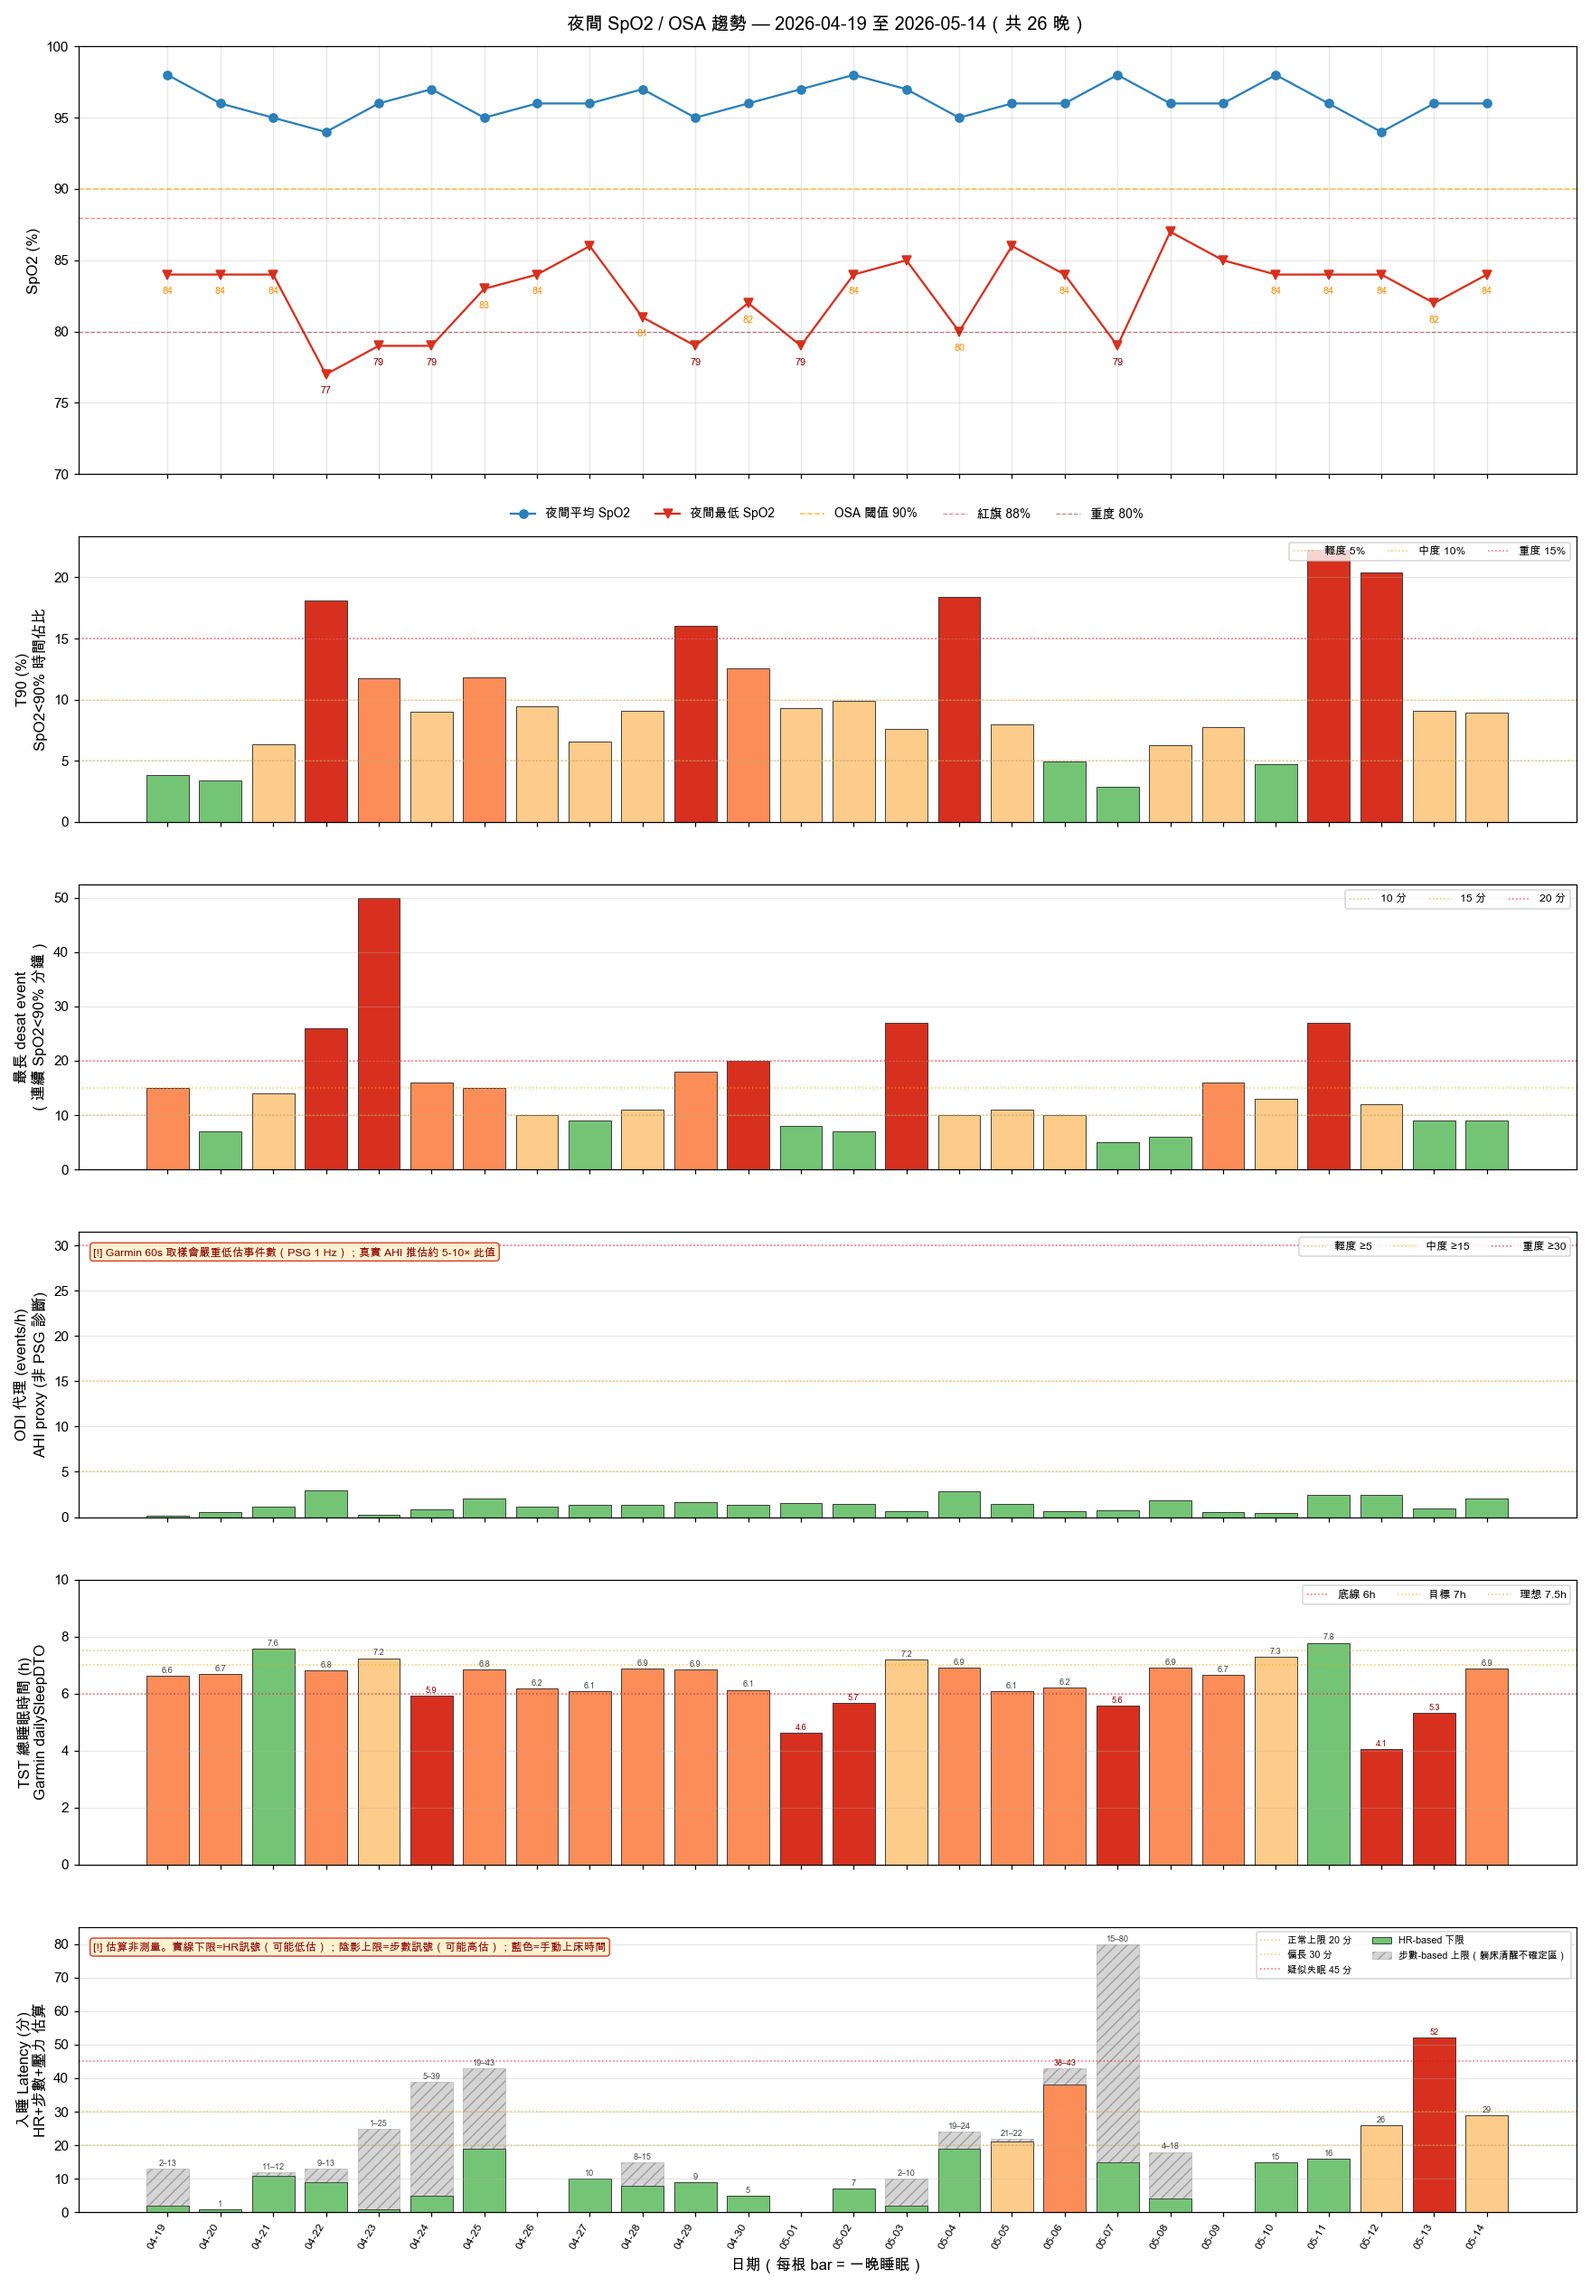
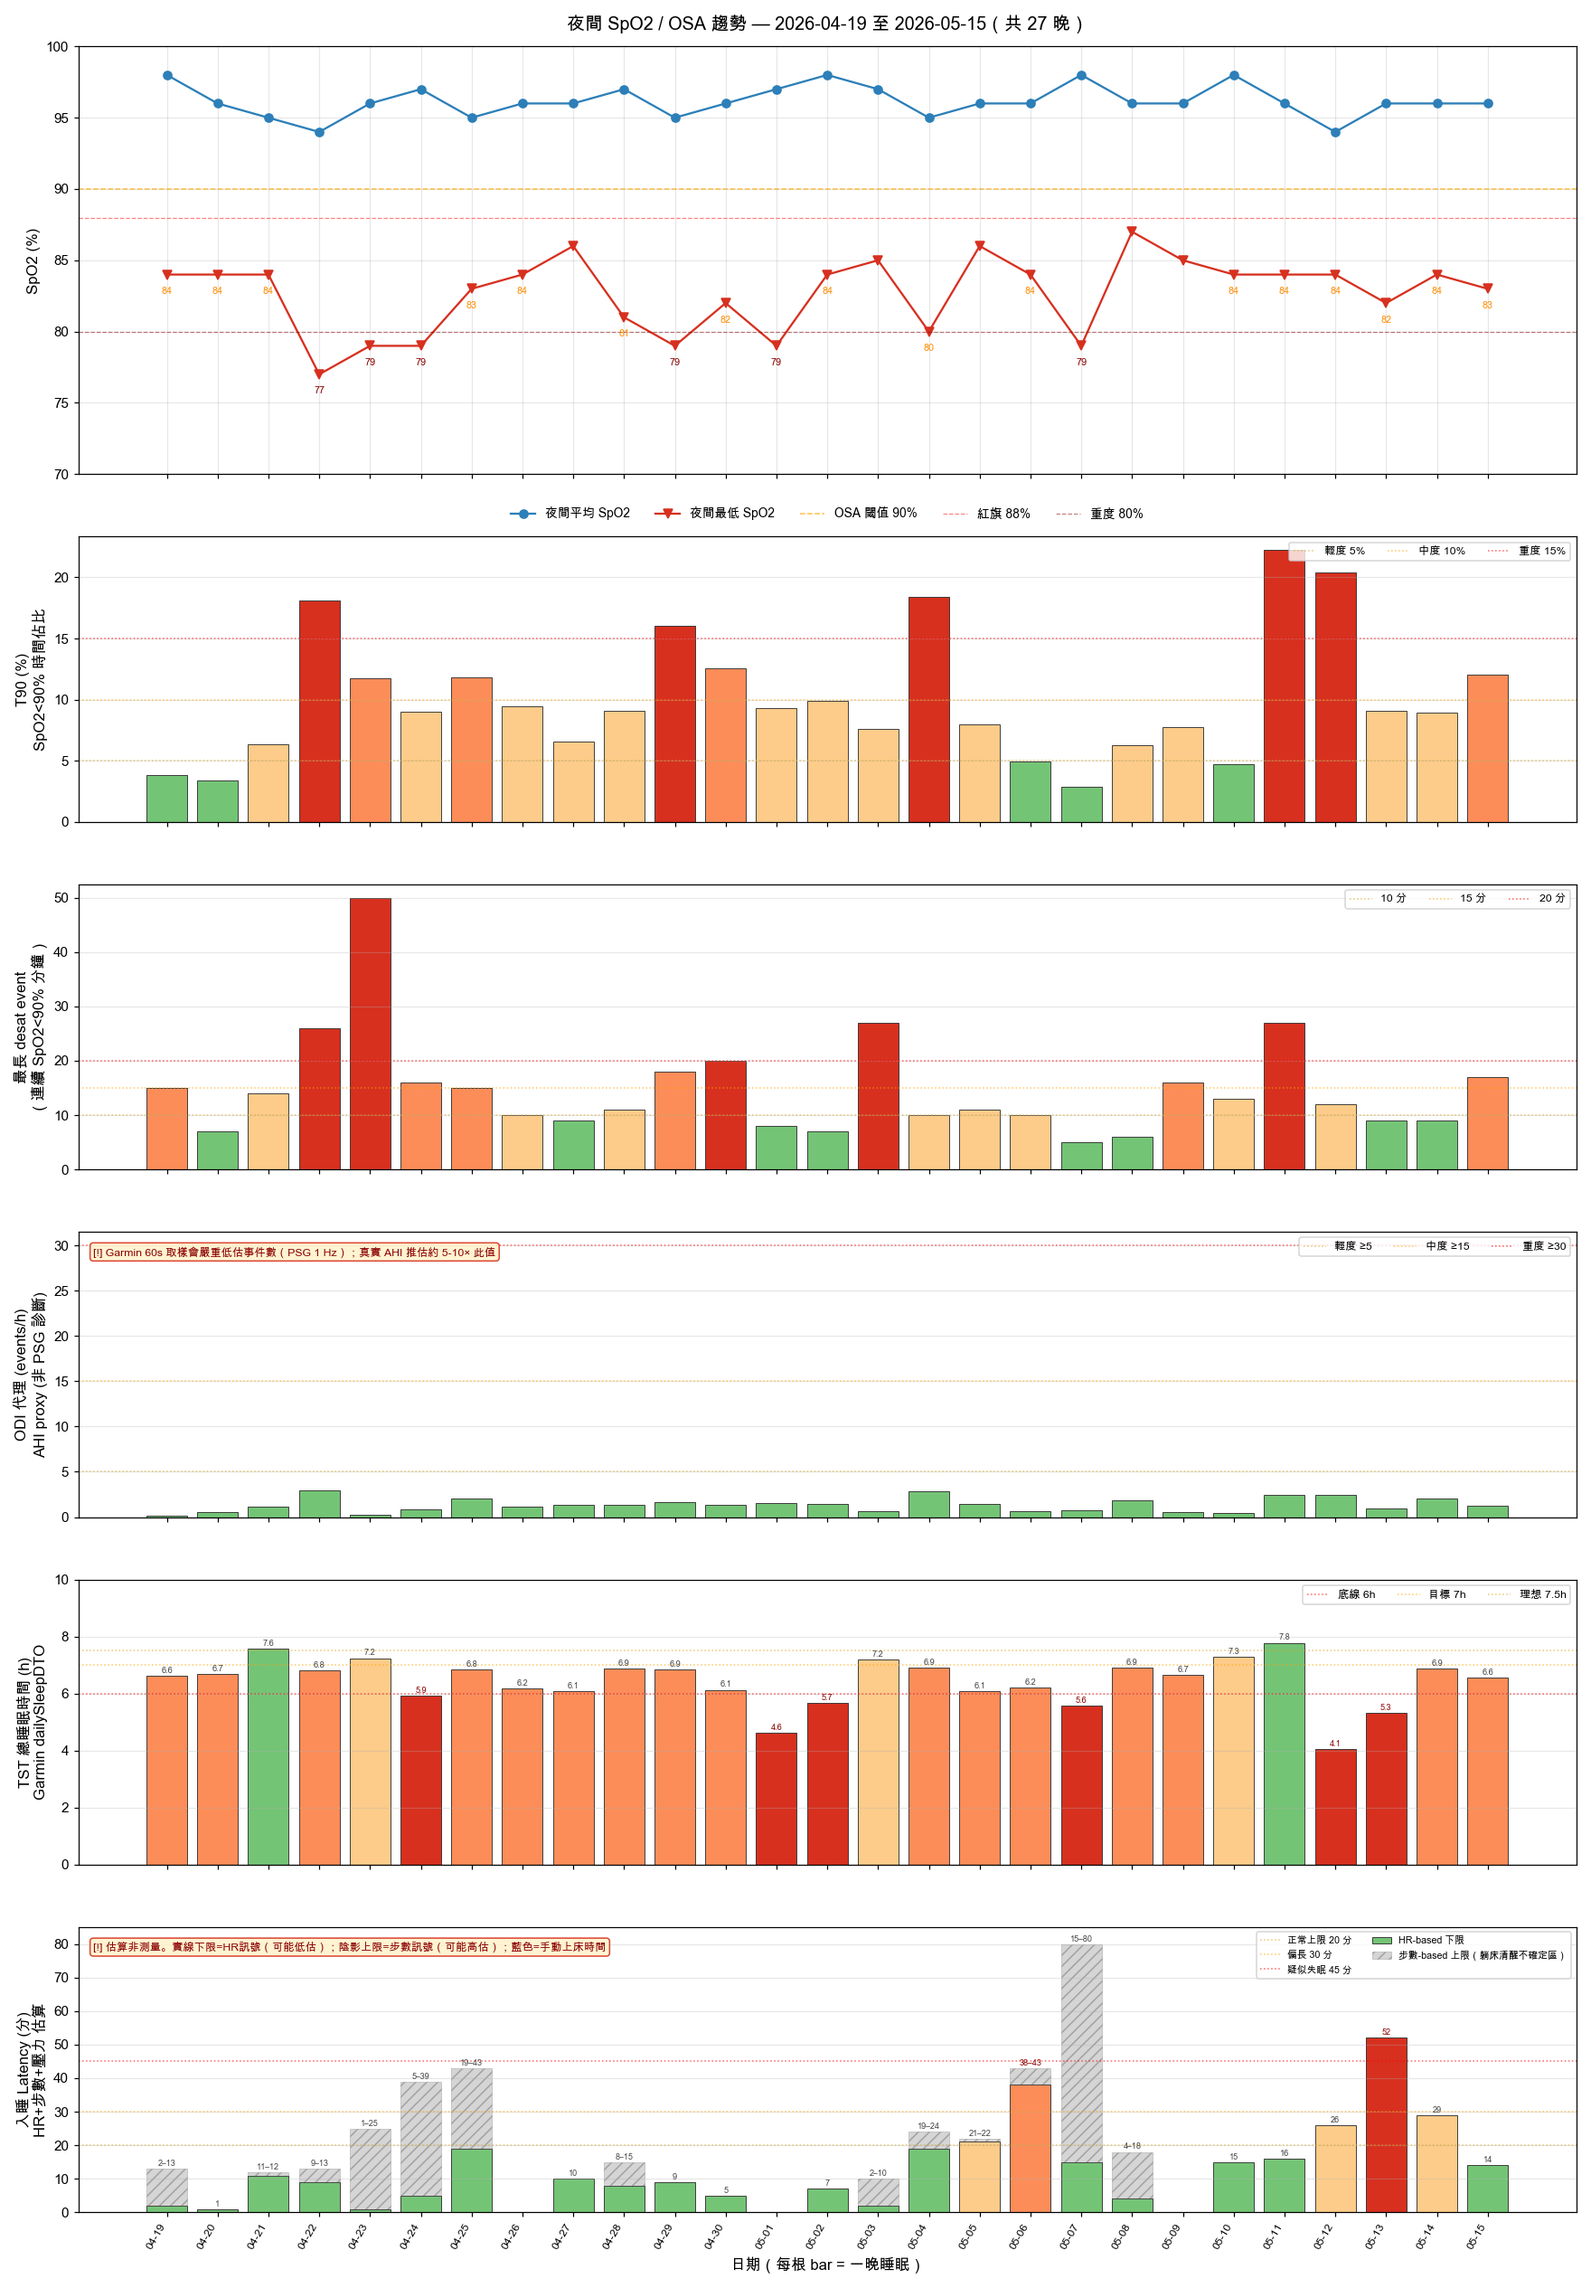
spo2: 補 5/15 三張圖（fix: read_text 加 utf-8 encoding 解決 cp950 錯誤）
- analyze_spo2_desats.py: read_text() 兩處加 encoding='utf-8'，Win Python 3.13 預設 cp950 無法解析 garmin JSON 中文欄位
- 補生成 5/15 epoch-level 圖、trend 圖（27 晚全 < 88%）、rolling 7 晚 overlay
- 今晨 nadir 83% / T90 12.1% / desat 55 min / 最長 event 15 min（重度）

diff --git a/scripts/analyze_spo2_desats.py b/scripts/analyze_spo2_desats.py
@@ -41,7 +41,7 @@ def load_epochs(date: str):
     p = DATA_DIR / f"{date}.json"
     if not p.exists():
         return None, None
-    data = json.loads(p.read_text())
+    data = json.loads(p.read_text(encoding="utf-8"))
     sleep = data.get("sleep") or {}
     epochs = sleep.get("wellnessEpochSPO2DataDTOList") or []
     if not epochs:
@@ -271,7 +271,7 @@ def cmd_trend(days: int = 9999, out: Path = None):
         pct, below, total = t90(epochs)
         longest = max((e["duration_min"] for e in events), default=0)
         # TST 從 dailySleepDTO 取
-        data = json.loads(f.read_text())
+        data = json.loads(f.read_text(encoding="utf-8"))
         dto = (data.get("sleep") or {}).get("dailySleepDTO") or {}
         tst_min = (dto.get("sleepTimeSeconds") or 0) / 60
         # Latency 估算
